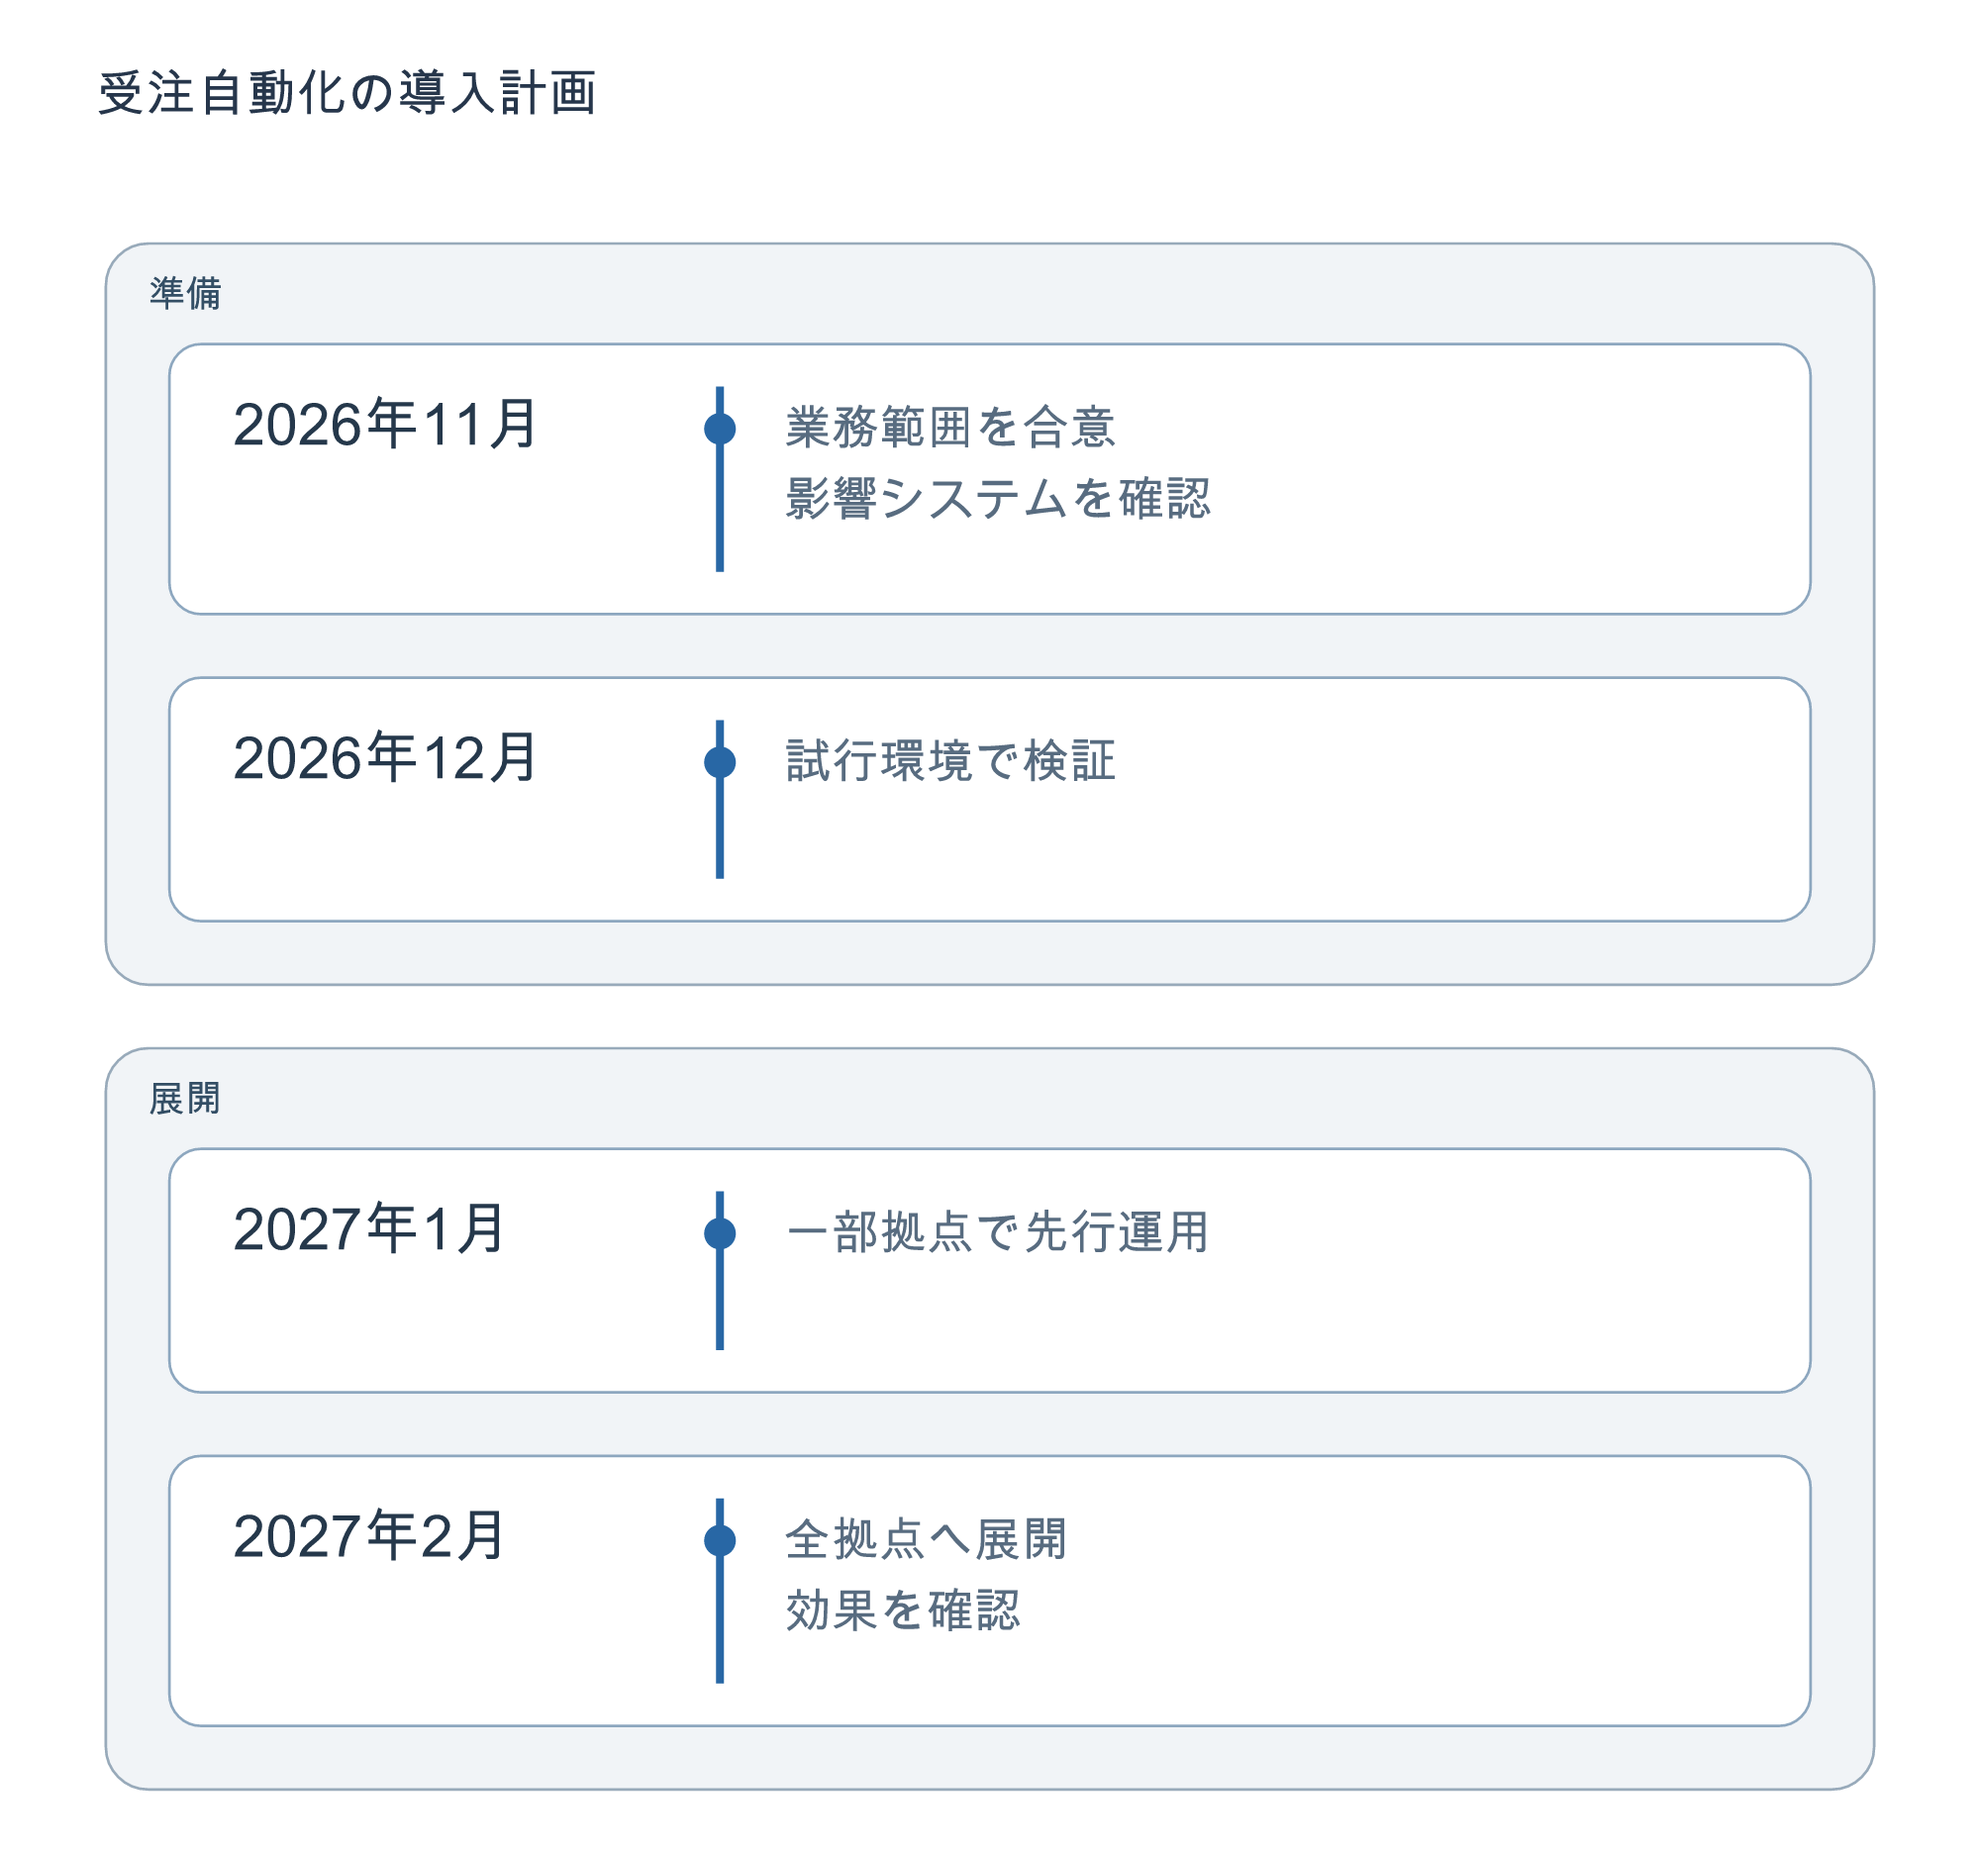
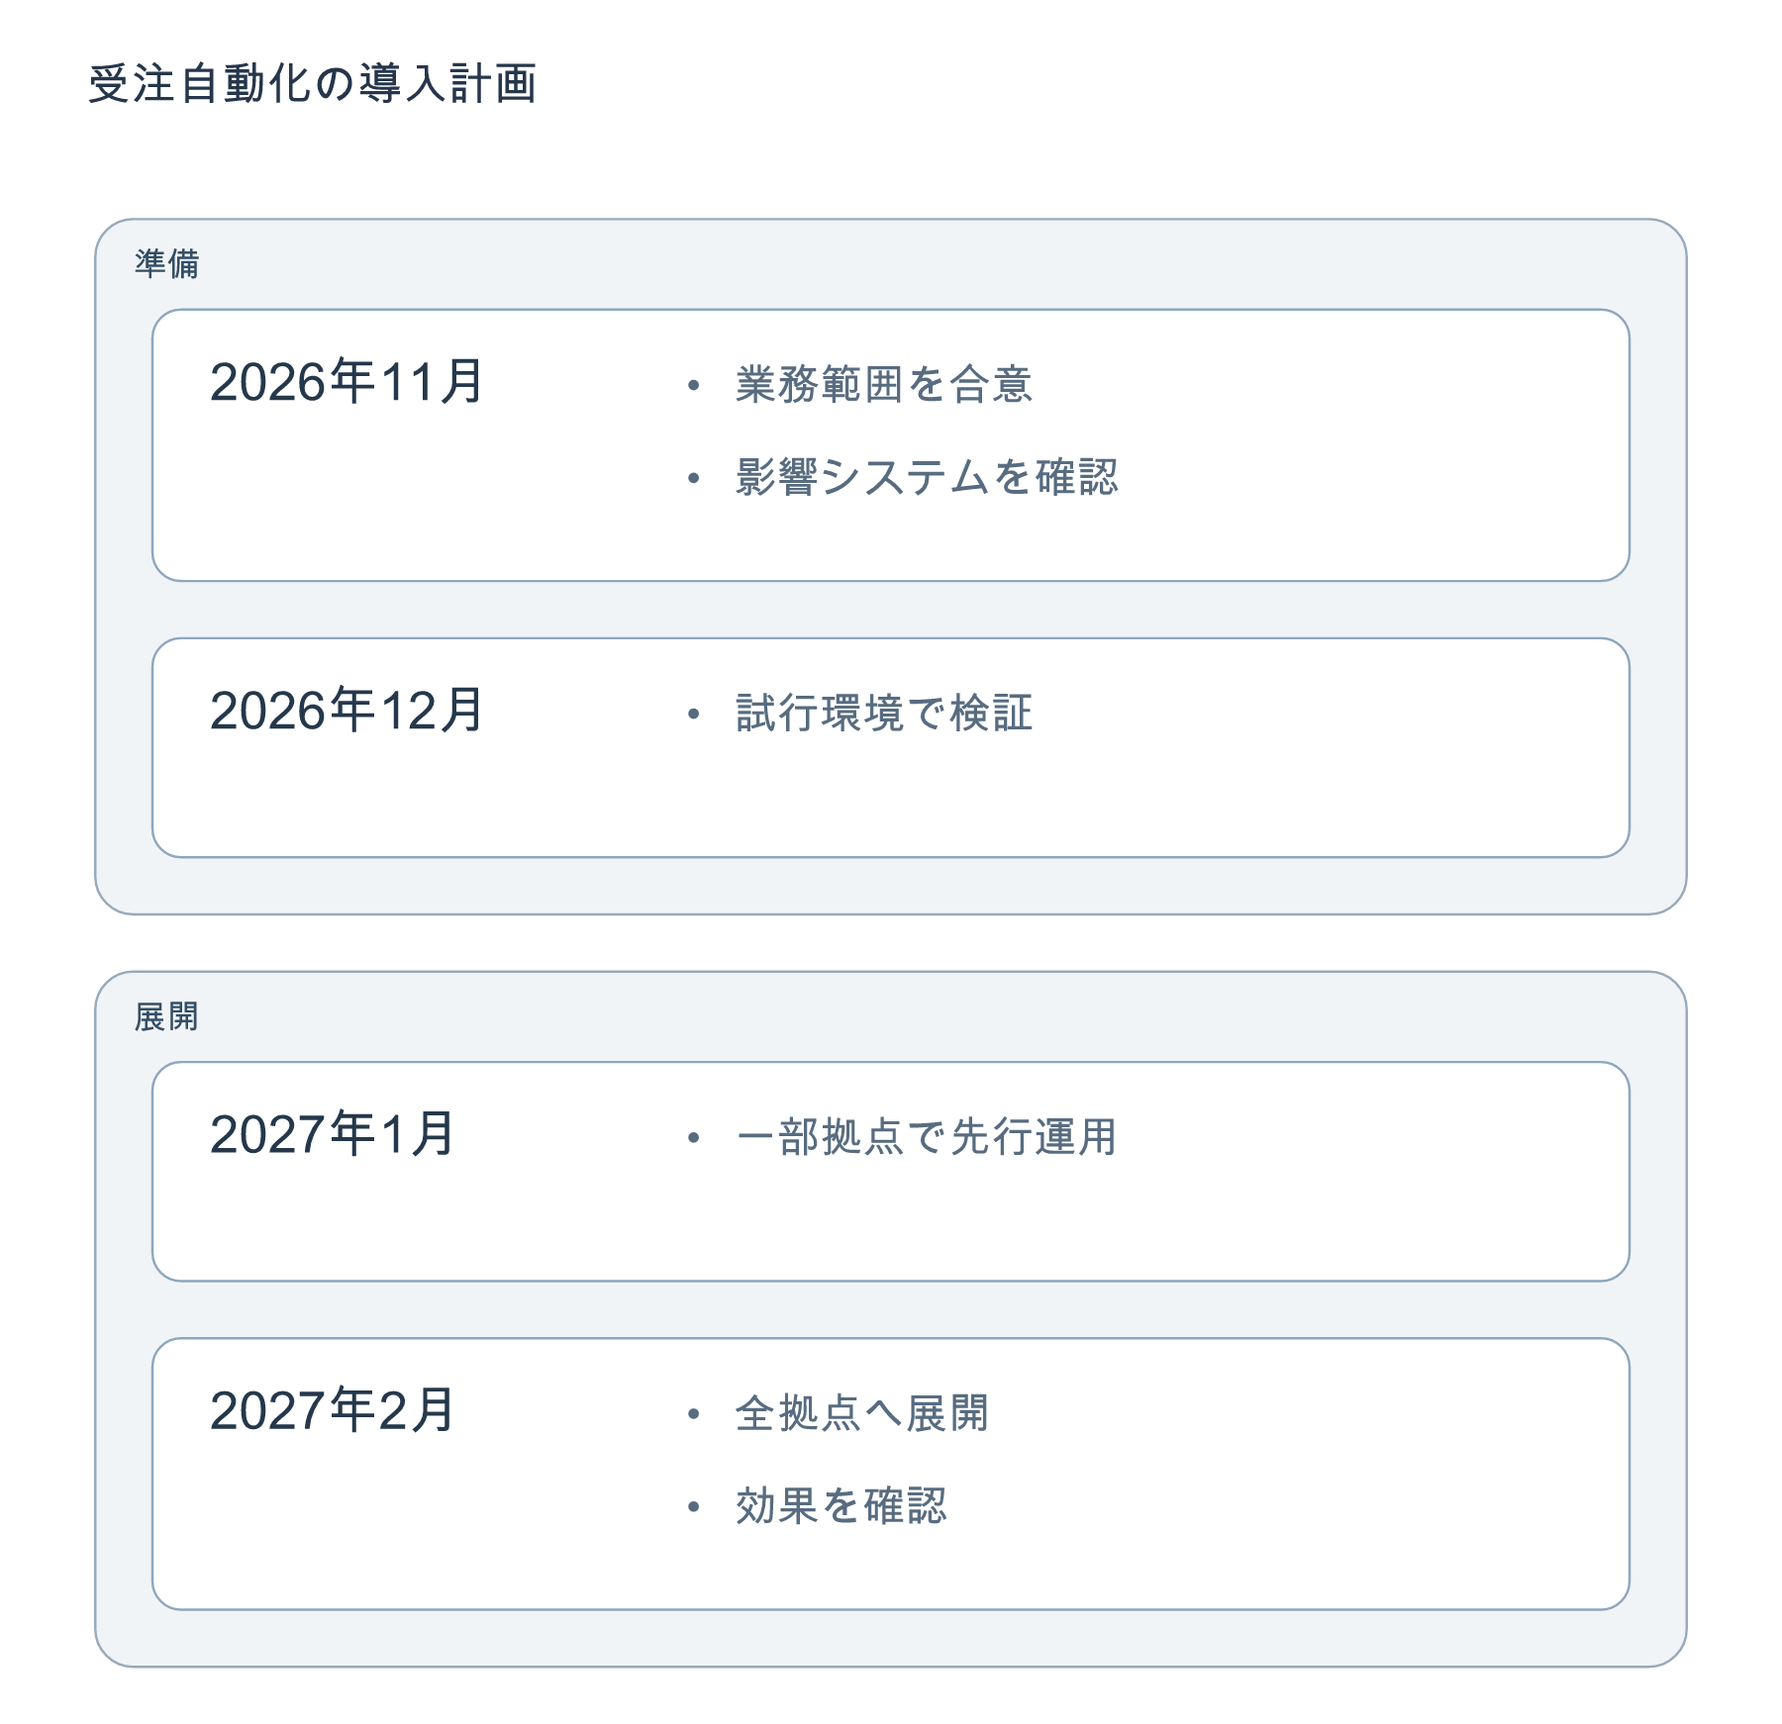
Render timeline periods as event bullet lists

diff --git a/src/focused/render.ts b/src/focused/render.ts
@@ -1,3 +1,4 @@
+import {timelineItems} from './temporal.js';
 import {renderGantt} from './gantt.js';
 import {focusModel,attentionStyle,focusTypography} from './attention.js';
 import {OUTPUT_THEME, palette} from './theme.js';
@@ -26,7 +27,9 @@ function renderNode(box: DiagramLayoutNode, kind: DiagramModel['kind'], edges: D
   const bodyFill=paint.fill??OUTPUT_THEME.surface, titleColor=paint.color??OUTPUT_THEME.title, detailColor=paint.color??OUTPUT_THEME.detail;
   const text = nodeText(node, kind, w), icon = node.icon ? getIcon(node.icon) : undefined;
   if(kind==='timeline') {
-    return `<g class="archmap-node archmap-period" data-node="${escapeXml(node.id)}"><rect x="${x}" y="${y}" width="${w}" height="${h}" rx="12" fill="${bodyFill}" stroke="${colors.border}"/><path d="M ${x+208} ${y+16} V ${y+h-16}" stroke="${colors.ink}" stroke-width="3"/><circle cx="${x+208}" cy="${y+32}" r="6" fill="${colors.ink}"/>${textLines(wrapText(node.label,160,22),x+24,y+38,22,30,titleColor,700)}${textLines(wrapText(node.description??'',364,18),x+232,y+38,18,27,detailColor)}</g>`;
+    let offset=0;
+    const items=timelineItems(node).map(lines=>{const row=`<g class="archmap-timeline-item">${textLines(['•'],x+224,y+38+offset,18,27,detailColor)}${textLines(lines,x+244,y+38+offset,18,27,detailColor)}</g>`;offset+=lines.length*27+12;return row;}).join('');
+    return `<g class="archmap-node archmap-period" data-node="${escapeXml(node.id)}"><rect x="${x}" y="${y}" width="${w}" height="${h}" rx="12" fill="${bodyFill}" stroke="${colors.border}"/>${textLines(wrapText(node.label,160,22),x+24,y+38,22,30,titleColor,700)}${items}</g>`;
   }
   if(kind==='overview') {
     const c=overviewContent(node),status={new:['新規','#087f72','#e5f6f1'],changed:['変更','#bd4d13','#fff2e6'],impact:['影響あり','#8a45aa','#f6ecfc'],unchanged:['変更なし','#64748b','#f1f5f9']}[node.emphasis??'unchanged'];

diff --git a/src/focused/temporal.ts b/src/focused/temporal.ts
@@ -33,6 +33,11 @@ export function readEventModel(ast:EventModel):Partial<DiagramModel> {
   return {kind:'eventmodeling',direction:'LR',title:ast.title??'',nodes,edges,groups};
 }
 
+/** Keep event boundaries distinct from line breaks within a single event. */
+export function timelineItems(n:DiagramNode):string[][] {
+ return (n.temporal?.events??(n.description?[n.description]:[])).map(event=>wrapText(event,346,18));
+}
+
 /** Timeline is ordinal, not a proportional date axis. Event frames keep source order. */
 export function temporalLayout(model:DiagramModel):DiagramLayout {
   const top=model.title?92:40;
@@ -40,7 +45,7 @@ export function temporalLayout(model:DiagramModel):DiagramLayout {
     let y=top,section:string|undefined;const nodes:DiagramLayoutNode[]=[],groups:DiagramLayout['groups']=[];
     for(const n of model.nodes){
       if(n.temporal?.lane!==section){section=n.temporal?.lane;y+=section?(nodes.length?62:38):0;}
-      const height=Math.max(92,48+Math.max(wrapText(n.label,160,22).length*30,n.description?wrapText(n.description,364,18).length*27:0));
+      const height=Math.max(92,48+Math.max(wrapText(n.label,160,22).length*30,timelineItems(n).reduce((sum,lines)=>sum+lines.length*27+12,0)-12));
       nodes.push({node:n,x:64,y,width:620,height});
       if(section && (nodes.length===1||nodes[nodes.length-2]!.node.temporal?.lane!==section))groups.push({group:model.groups.find(g=>g.id===n.group)!,x:40,y:y-38,width:668,height:height+62});
       else if(section)groups[groups.length-1]!.height=y+height+24-groups[groups.length-1]!.y;

diff --git a/test/business-temporal.test.ts b/test/business-temporal.test.ts
@@ -43,3 +43,8 @@ it.each(['LR','RL','TB','BT'])('overview reserves long callouts with nested grou
 it('overview projects Mermaid shapes to measured cards without mutating the input model',async()=>{
  const m=await parseDiagram('%% archmap: {"view":"overview","nodes":{"A":{"callout":"確認ポイント"}}}\nflowchart LR\nA@{ shape: fork, label: "Parallel" } --> B[(Data)]');expect(m.diagnostics).toEqual([]);const before=JSON.stringify(m),r=renderDiagram(m);expect(JSON.stringify(m)).toBe(before);expect(r.layout.nodes.every(n=>n.width===320)).toBe(true);expect(r.svg).toContain('確認ポイント');
 });
+
+it('renders timeline events as separate bullets, preserving multiline event boundaries',async()=>{
+ const m=await parseDiagram('timeline\n11月 : 設計<br>完了 : 開発開始 : レビュー\n12月 : 公開');expect(m.diagnostics).toEqual([]);expect(m.nodes[0].temporal?.events).toEqual(['設計\n完了','開発開始','レビュー']);const r=renderDiagram(m);
+ const doc=new DOMParser().parseFromString(r.svg,'image/svg+xml');const periods=doc.querySelectorAll('.archmap-period');expect(periods[0].querySelectorAll('.archmap-timeline-item')).toHaveLength(3);expect(periods[1].querySelectorAll('.archmap-timeline-item')).toHaveLength(1);expect(periods[0].querySelectorAll('circle,path')).toHaveLength(0);expect(periods[0].querySelector('.archmap-timeline-item')!.textContent).toContain('設計完了');expect(r.layout.nodes[0].height).toBeGreaterThan(r.layout.nodes[1].height);
+});

diff --git a/src/focused/parser.ts b/src/focused/parser.ts
@@ -85,7 +85,7 @@ async function parse(source: string): Promise<DiagramModel> {
     } else if(diagram.type==='timeline') {
       model.kind='timeline'; model.direction='TD';
       const db=diagram.db as unknown as {getTasks():Array<{id:number;section:string;task:string;events:string[]}>};
-      model.nodes=db.getTasks().map((t,i)=>({...node('period-'+t.id,text(t.task).trim()),description:t.events.map(e=>text(e).trim()).join('\n'),temporal:{order:i,lane:text(t.section||''),category:'period'}}));
+      model.nodes=db.getTasks().map((t,i)=>({...node('period-'+t.id,text(t.task).trim()),description:t.events.map(e=>text(e).trim()).join('\n'),temporal:{events:t.events.map(e=>text(e).trim()),order:i,lane:text(t.section||''),category:'period'}}));
       let section='',sectionId='';
       for(const n of model.nodes){if(n.temporal!.lane!==section){section=n.temporal!.lane;sectionId='section-'+model.groups.length;if(section)model.groups.push({id:sectionId,label:section,color:'gray',line:0});}if(section)n.group=sectionId;}
 

diff --git a/src/focused/types.ts b/src/focused/types.ts
@@ -12,7 +12,7 @@ export interface DiagramNode {
   callout?: string;
   calloutSize?: number;
   gantt?: {start:number; end:number; milestone:boolean; active:boolean; done:boolean; critical:boolean; vertical:boolean};
-  temporal?: {order:number; lane:string; category:string};
+  temporal?: {events?:string[]; order:number; lane:string; category:string};
   paint?: DiagramPaint;
   participantType?: string;
   links?: Array<{label:string;href:string}>;

diff --git a/docs/SYNTAX.md b/docs/SYNTAX.md
@@ -462,6 +462,8 @@ Mermaid **12.3.0（安定版）** と公式 `@mermaid-js/parser` を使用する
 
 ### Timeline
 
+タイムラインの表示は「期間＋出来事の箇条書き」です。縦の時間軸や丸い時点マーカーは表示しません。標準構文の各イベント（コロンで区切った単位）を1項目とし、イベント内の改行は同じ項目内で折り返します。日付に比例した位置や進捗率を表すものではありません。
+
 標準 `timeline`、`title`、`section`、`期間 : イベント : イベント` と次行の `: イベント` に対応。期間は自由な文字列。入力順の縦型年表で表示し、日付を自動ソートしない。期間の長さに比例する時間軸ではない。`direction`やMermaid独自テーマはArchMapの表示へ反映しない。空のsectionは描画しない。
 
 ```mermaid
